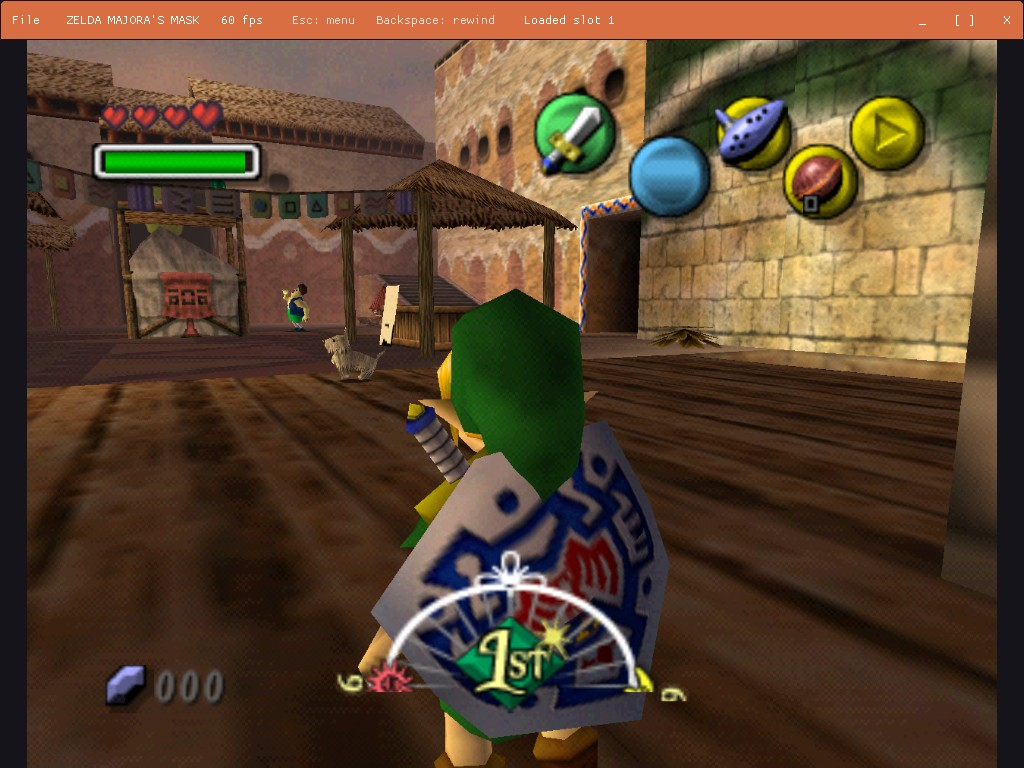
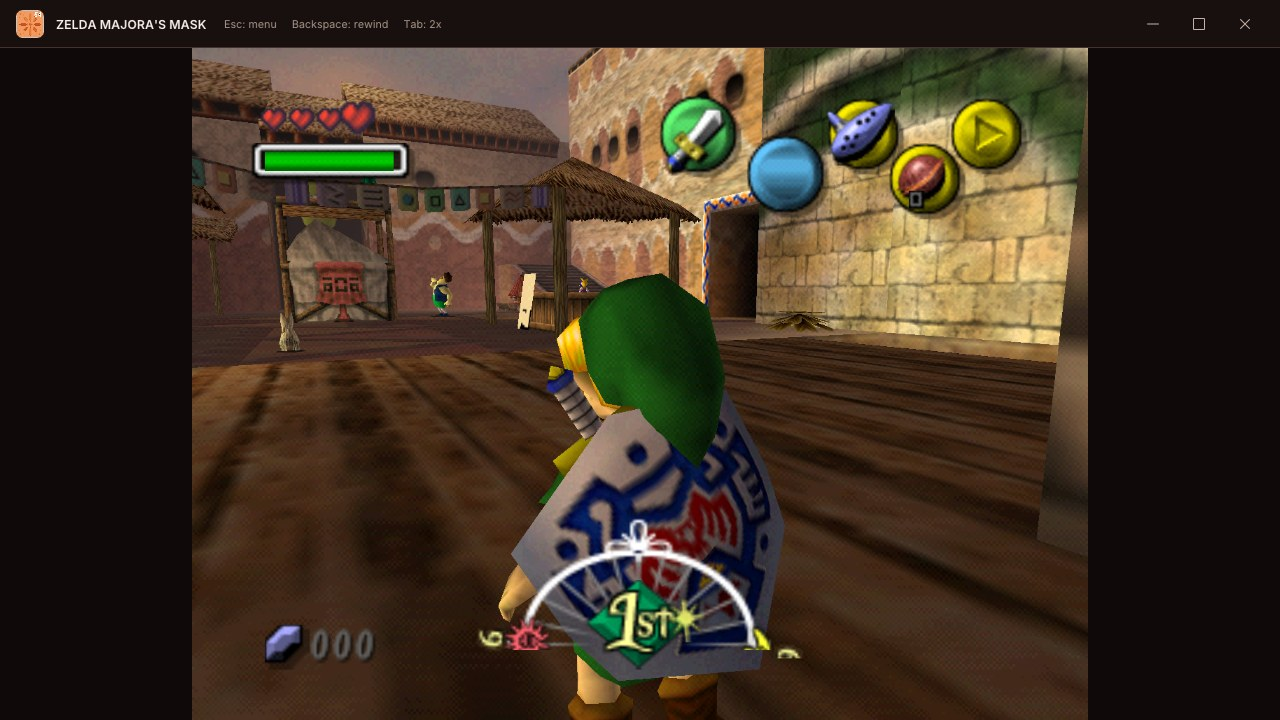
Release preparation: new README screenshots, Windows status, checksums, library entry for command-line games
- README: the three gameplay pictures and the two settings pages are redone in the current launcher (they showed
  the old menu bar and the old settings); Windows is listed as tested; a SmartScreen note for the unsigned installer.
- Release workflow: the Windows files get .sha256 checksums like the macOS dmg.
- A game started from the command line is added to the library, with its play counted, as its copy in roms/.
- Release plan: Windows, checksums and the packaged first-run check ticked off.

diff --git a/nova64/UI/LauncherPlay.cpp b/nova64/UI/LauncherPlay.cpp
@@ -126,6 +126,13 @@ void NovaLauncher::PlayRom(const std::string& path, const std::string& name) {
     if (path.empty()) return;
 
     m_emuRomPath = detail::CopyIntoRomsFolder(path);
+    // A game started from the command line is not in the library yet: list it (as its copy in roms/), so it is
+    // there, with its play counted, the next time the launcher is opened.
+    if (FindGame(path) < 0) {
+        std::string title;
+        detail::ReadN64RomHeader(m_emuRomPath, &title);
+        AddToLibrary(m_emuRomPath, name.empty() ? title : name);
+    }
     RecordPlay(path);
     m_emuTitle = name.empty() ? fs::path(m_emuRomPath).stem().string() : name;
     Nova64::StateService::Instance().BeginSession(m_emuRomPath);

diff --git a/README.md b/README.md
@@ -13,13 +13,13 @@
   <img alt="License: GPL-2.0" src="https://img.shields.io/badge/license-GPL--2.0-blue">
   <img alt="C++20" src="https://img.shields.io/badge/C%2B%2B-20-00599C">
   <img alt="Graphics: Vulkan and OpenGL" src="https://img.shields.io/badge/graphics-Vulkan%20%7C%20OpenGL-a41e22">
-  <img alt="Tested on macOS (Apple Silicon)" src="https://img.shields.io/badge/tested%20on-macOS%20(Apple%20Silicon)-lightgrey">
+  <img alt="Tested on macOS (Apple Silicon) and Windows" src="https://img.shields.io/badge/tested%20on-macOS%20(Apple%20Silicon)%20%7C%20Windows-lightgrey">
   <img alt="Status: active development" src="https://img.shields.io/badge/status-active%20development-orange">
 </p>
 
 <p align="center">
   <img src="docs/showcase/mm-gameplay.jpg" width="720"
-       alt="The Legend of Zelda: Majora's Mask running in the NovaStar64 launcher window at 60 fps">
+       alt="The Legend of Zelda: Majora's Mask running in the NovaStar64 launcher window">
 </p>
 
 NovaStar64 plays commercial N64 games inside a self-contained launcher window.
@@ -110,7 +110,7 @@ The project is under active development. Expect bugs and rough edges — see
   </tr>
   <tr>
     <td><img src="docs/showcase/mm-dialogue.jpg" alt="Majora's Mask: a Deku Scrub's dialogue box in the launcher window"></td>
-    <td><img src="docs/showcase/sm64-gameplay.jpg" alt="Super Mario 64: Mario near Princess Peach's castle, rendered at 4x internal resolution"></td>
+    <td><img src="docs/showcase/sm64-gameplay.jpg" alt="Super Mario 64: Princess Peach's castle in the opening fly-over, rendered at 4x internal resolution"></td>
   </tr>
   <tr>
     <td align="center"><b>Majora's Mask</b> — in-game text and UI</td>
@@ -126,7 +126,7 @@ The project is under active development. Expect bugs and rough edges — see
   </tr>
   <tr>
     <td><img src="docs/showcase/settings-video.png" alt="The Video settings page: each option with a line of help and its control"></td>
-    <td><img src="docs/showcase/settings-controls.png" alt="The Controls settings page: players, accessories and button bindings"></td>
+    <td><img src="docs/showcase/settings-controls.png" alt="The Controls settings page: the Rumble Pak window shake, players and their accessories"></td>
   </tr>
   <tr>
     <td align="center"><b>Settings</b> — one row per option, saved at once</td>
@@ -148,7 +148,7 @@ systematically, and there is no automated compatibility suite.
 | Super Mario 64 (NTSC-U) | Playable | Title screen, the opening cutscene with Peach's letter, the castle grounds and the pause screen all work. |
 | The Legend of Zelda: Ocarina of Time (NTSC-U 1.2) | Playable | Name entry, the intro dialogue, Link's house in Kokiri Forest and all four pause-menu pages (items, map, quest status, equipment) work. Opening the pause menu holds the last frame for a few seconds while the game filters it on the CPU. |
 
-macOS on Apple Silicon is the only platform it has been built and run on. The
+It has been built and run on macOS (Apple Silicon) and on Windows; Linux has not been tried. The
 ARM64 recompiler runs the games above but is still incomplete — on Majora's Mask
 its memory state drifts from the interpreter's early in boot (see
 [CONTRIBUTING.md](CONTRIBUTING.md#what-still-differs-between-the-engines)) — so
@@ -175,6 +175,10 @@ then open System Settings → Privacy & Security and click **Open Anyway**. (On 
 14 or earlier, right-click → Open does the same.) You only do this once. Intel Macs
 build from source for now.
 
+On Windows the installer is not code-signed either, so SmartScreen may say "Windows
+protected your PC": click **More info**, then **Run anyway**. Each file has a
+`.sha256` beside it on the release page if you want to check the download.
+
 An installed copy keeps its settings, games and saves in your user data folder —
 `~/Library/Application Support/NovaStar64` on macOS, `%LOCALAPPDATA%\NovaStar64` on
 Windows — so updating or uninstalling the program never touches them. **Settings →
@@ -200,8 +204,7 @@ says where the result is. The first build takes a few minutes; after that only w
 you changed is rebuilt. `./build.sh --help` lists the options.
 
 **Windows:** `build.bat` does the same with CMake and Visual Studio's C++ tools (it
-tells you how to install them if they are missing). It has not been tried on a real
-Windows machine yet.
+tells you how to install them if they are missing).
 
 <details>
 <summary>The same thing by hand</summary>
@@ -428,11 +431,10 @@ diagnostic variables and the failure modes that have already cost time.
 - Ocarina of Time's pause menu holds the last frame for a few seconds while the game
   builds its background on the CPU. The length of the wait has not been compared with
   real hardware.
-- The launcher is written to build on Windows and Linux but has only been built
-  and run on macOS. `build.sh` has only been run on macOS, and `build.bat`, the
-  Windows installer and portable zip, and the release workflow that makes them have
-  not been run on Windows yet; the first release build there may need fixes. Drawing a game inside the launcher with the OpenGL renderer
-  (the default outside macOS) is untested; Vulkan is the tested path.
+- The launcher has been built and run on macOS and on Windows. Linux is untested: the code is written to build
+  there, but `build.sh` has only been run on macOS. Vulkan
+  is the path tested most; drawing a game inside the launcher with the OpenGL renderer (the default outside
+  macOS) has had much less use.
 - Controller support has been exercised with a physical controller on macOS and
   with SDL's virtual controllers; rumble motor output has not been verified. The
   Controller Pak (memory card) is not available.

diff --git a/docs/RELEASE_PLAN.md b/docs/RELEASE_PLAN.md
@@ -164,15 +164,17 @@ Correctness and robustness
 - [ ] macOS: Developer ID signing, notarisation and stapling (needs an Apple Developer account);
       decide between a universal binary and separate ARM64 and Intel downloads
 - [ ] macOS disk image artwork (background, icon placement)
-- [ ] Windows: build and run on a real machine, installer and portable zip, SmartScreen note or
-      code signing
+- [x] Windows: built and run on a real machine, installer and portable zip tried; the README has the SmartScreen note
+- [ ] Windows code signing (so SmartScreen stops warning)
 - [ ] Linux: AppImage (or Flatpak), Vulkan loader and SDL requirements documented
-- [ ] Release notes generated from the changelog; checksums published with every file
+- [x] Checksums published with every file (a `.sha256` for the dmg, the setup wizard and the portable zip)
+- [ ] Release notes generated from the changelog
 - [ ] Crash handling: a log and a "copy diagnostics" button that does not include personal paths
 - [ ] Privacy statement in the README: no telemetry and no network connections (the code has no
       sockets or HTTP at all; the achievements tab is a placeholder). Re-check before each release
-- [ ] Pre-release checklist: clean checkout builds, fresh-home first run, upgrade keeps saves,
-      uninstall keeps saves
+- [x] Fresh-home first run of the packaged macOS app (dmg verified, signature and minimum OS checked, game added,
+      state saved, data kept outside the app, library there on the next start)
+- [ ] Pre-release checklist for every release: clean checkout builds, upgrade keeps saves, uninstall keeps saves
 - [ ] Dry run on a throwaway tag and a draft release before the real one
 
 ## 6. Video footage

diff --git a/CONTRIBUTING.md b/CONTRIBUTING.md
@@ -349,8 +349,8 @@ itself (`xcrun notarytool`) is not scripted.
 script: a standard setup wizard (licence, install folder, optional desktop shortcut,
 launch at the end) that installs for the current user without administrator rights.
 The release workflow builds the program with `-DNOVA64_STATIC_RUNTIME=ON` (so users don't
-need the Visual C++ Redistributable), wraps it in the installer, and also zips a portable copy. None of
-this has been run on Windows yet.
+need the Visual C++ Redistributable), wraps it in the installer, and also zips a portable copy. The
+program and the installer have been tried on a Windows machine.
 
 **Releases.** The version is the one line in `VERSION`. To publish:
 
